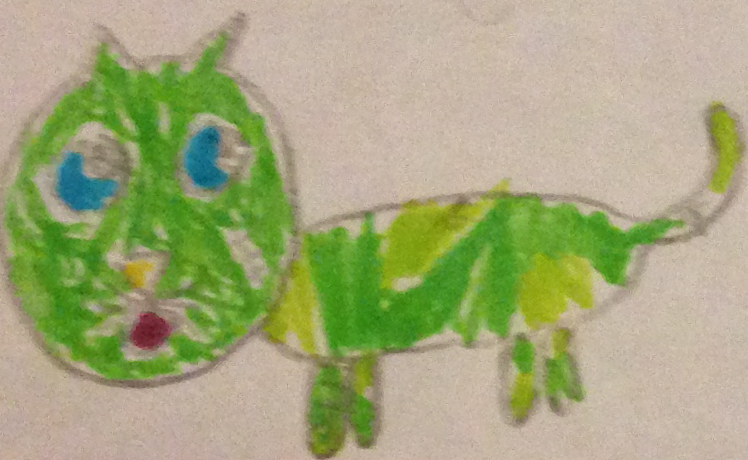
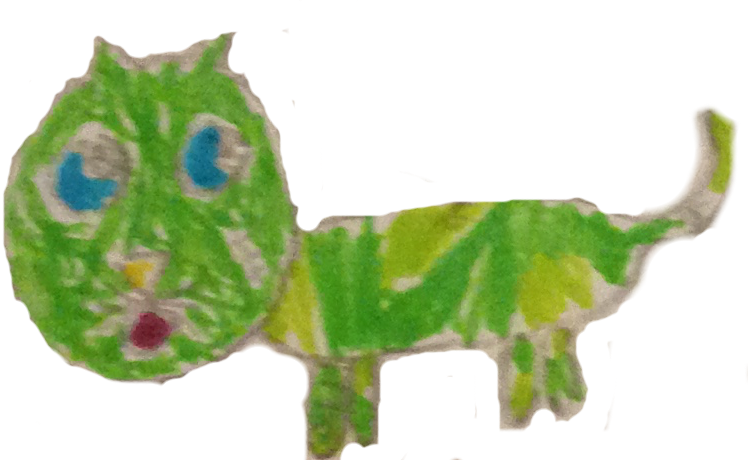
- Added 3rd background - Removed paper from images: hairball, catZombie, and genericZombie

diff --git a/PrVZ Dev/GameScene.swift b/PrVZ Dev/GameScene.swift
@@ -75,7 +75,10 @@ class GameScene: SKScene, SKPhysicsContactDelegate
             }
             if backgroundNumber == 3
             {
-                
+                let background = SKSpriteNode(imageNamed: "background3.png")
+                background.zPosition = -2
+                background.position = CGPoint(x: CGRectGetMidX(self.frame), y: CGRectGetMidY(self.frame))
+                self.addChild(background)
             }
         }
         else
@@ -276,6 +279,7 @@ class GameScene: SKScene, SKPhysicsContactDelegate
                     var yPos = CGFloat((arc4random()%150)+150)
                     var xPos = CGFloat((arc4random()%150)+150)
                     cat1.name = "catZombie"
+                    cat1.health = self.wavesCompleted
                     cat1.physicsBody = SKPhysicsBody(circleOfRadius:cat1.size.width/2)
                     cat1.physicsBody?.dynamic = true
                     cat1.physicsBody?.categoryBitMask = self.monsterCategory
@@ -428,7 +432,7 @@ class GameScene: SKScene, SKPhysicsContactDelegate
         projectile.removeFromParent()
         var monsterSK = monster as GenericZombie
         monsterSK.health--
-        if monsterSK.health <= 0
+        if monsterSK.health < 1
         {
             var deadZombie = SKSpriteNode(imageNamed: "ash.png")
             deadZombie.name = "ash"
@@ -522,8 +526,14 @@ class GameScene: SKScene, SKPhysicsContactDelegate
         }
         
         defaults.setObject(1, forKey: "background")
-        var background2 = self.childNodeWithName("background2")
-        background2?.removeFromParent()
+        if let background2 = self.childNodeWithName("background2")
+        {
+            background2.removeFromParent()
+        }
+        if let background3 = self.childNodeWithName("background3")
+        {
+            background3.removeFromParent()
+        }
         var background = SKSpriteNode(imageNamed: "background")
         background.position = CGPoint(x: CGRectGetMidX(self.frame), y: CGRectGetMidY(self.frame))
         background.zPosition = -2
@@ -1217,18 +1227,45 @@ class GameScene: SKScene, SKPhysicsContactDelegate
                 
             }
             var range = NSRange(location: 4, length: 2)
+            var range2 = NSRange(location: 7, length: 2)
             var background2Bool = NSLocationInRange(wavesCompleted, range)
             if background2Bool
             {
                 var defaults: NSUserDefaults = NSUserDefaults.standardUserDefaults()
                 defaults.setObject(2, forKey: "background")
-                var background = self.childNodeWithName("background")
-                background?.removeFromParent()
+                if let background = self.childNodeWithName("background")
+                {
+                    background.removeFromParent()
+                }
+                if let background3 = self.childNodeWithName("background3")
+                {
+                    background3.removeFromParent()
+                }
                 var background2 = SKSpriteNode(imageNamed: "background2")
                 background2.position = CGPoint(x: CGRectGetMidX(self.frame), y: CGRectGetMidY(self.frame))
                 background2.zPosition = -2
                 background2.name = "background"
                 self.addChild(background2)
+            }
+            
+            var background3Bool = NSLocationInRange(wavesCompleted, range2)
+            if background3Bool
+            {
+                var defaults: NSUserDefaults = NSUserDefaults.standardUserDefaults()
+                defaults.setObject(3, forKey: "background")
+                if let background2 = self.childNodeWithName("background2")
+                {
+                    background2.removeFromParent()
+                }
+                if let background2 = self.childNodeWithName("background2")
+                {
+                    background2.removeFromParent()
+                }
+                var background3 = SKSpriteNode(imageNamed: "background3")
+                background3.position = CGPoint(x: CGRectGetMidX(self.frame), y: CGRectGetMidY(self.frame))
+                background3.zPosition = -2
+                background3.name = "background"
+                self.addChild(background3)
             }
             
             if self.princessHealth != 0
